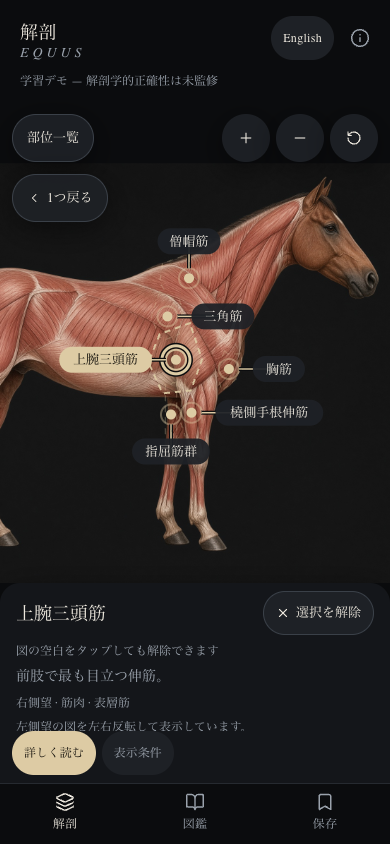
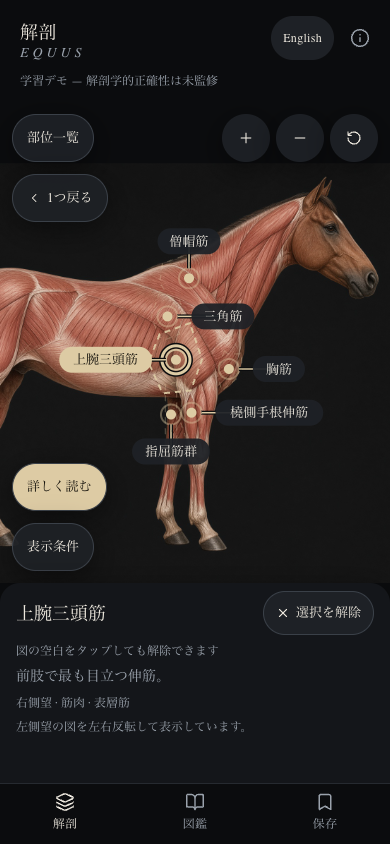
docs: #176 の web 証跡を最新の main の配布物で取り直す

Changed region(s): [[0.0308, 0.5237, 0.2769, 0.6777], [0.0308, 0.8626, 0.2462, 0.9242], [0.3077, 0.8626, 0.4, 0.8934]]

diff --git a/doc/evidence/176/evidence.md b/doc/evidence/176/evidence.md
@@ -1,4 +1,4 @@
-# #176 最終 web の部位選択とガイドの証跡（2026-10-20）
+# #176 最終 web の部位選択とガイドの証跡（2026-10-21）
 
 ## 結論
 
@@ -7,8 +7,8 @@ native は今の main で作った配布物が無いので未確認。
 
 ## web
 
-- 配布先: https://ca3c1355.equus-anatomy-84f.pages.dev
-- 元の commit: `6408e23`（#179 のマージ後の main）。CI の run 39439743943 で配布した。
+- 配布先: https://745223f6.equus-anatomy-84f.pages.dev
+- 元の commit: `10ef26a`（#202 のマージ後の main）。CI の run 39447835043 で配布した。
 - 道具: `e2e/tools/part-selection-evidence.spec.ts` を配布先に向けて Chrome で実行した。
 - 画面: 390x844（スマホ縦）。
 
@@ -40,7 +40,7 @@ native は今の main で作った配布物が無いので未確認。
 今の main で作った APK と IPA が無い。
 
 - 最後の FAD 配布（FAD Distribution）は `f4960cdb`（10-17）。
-- その後の #179 で画面の2ファイル（`src/app/(tabs)/index.tsx`、`src/ui/app-header.tsx`）が変わった。
+- その後の #179・#201・#202 で画面と文言のファイルが変わった（`src/app/(tabs)/index.tsx` など 6 件）。
 - 古い配布物で撮っても今の画面の証跡にならない。
 
 足りないのは今の main の native 配布物（APK か IPA）。

diff --git a/doc/evidence/176/run-log.md b/doc/evidence/176/run-log.md
@@ -1,4 +1,4 @@
-- URL: https://ca3c1355.equus-anatomy-84f.pages.dev
+- URL: https://745223f6.equus-anatomy-84f.pages.dev
 - 未監修の注記: 「学習デモ — 解剖学的正確性は未監修」
 - 左側望の原画 /assets/assets/anatomy/muscle_left.26fdfdf733654d4c0ae69f820deeb620.jpg → sha256:b630557e745588f677831315507a2664db5dd5d5c3bc9718424592354d218b90（regions/left.json と一致）
 - 01-home-390.png: 左上に部位一覧の入口。監修前の注記が見える
